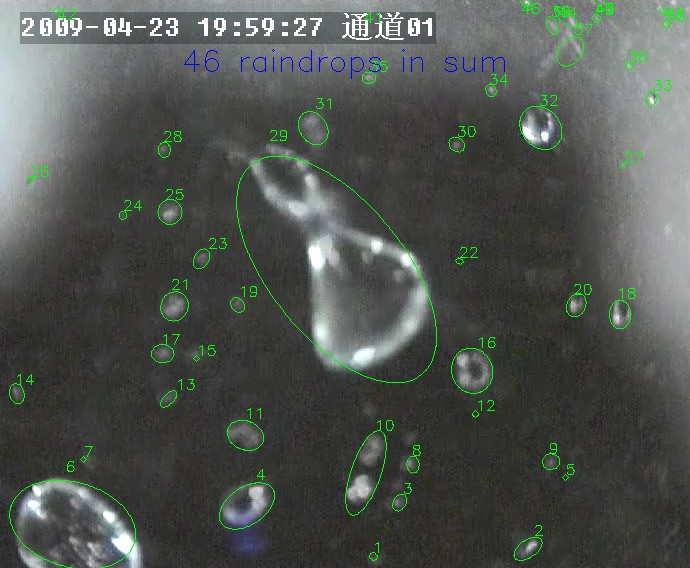
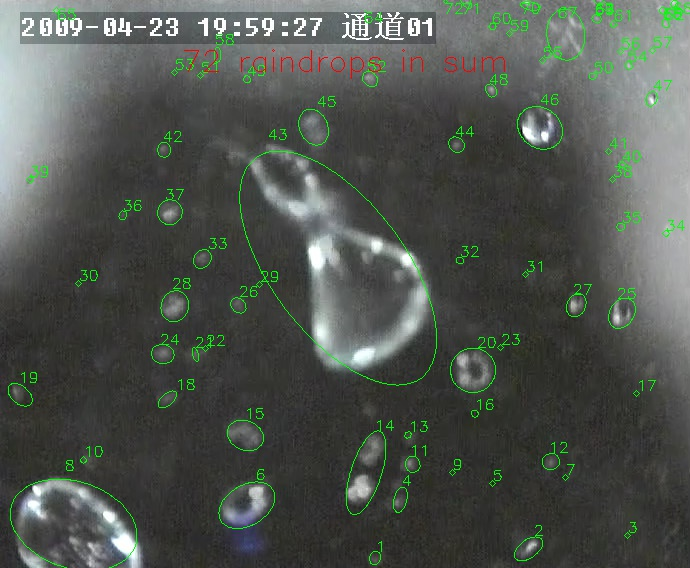
small update

diff --git a/src/main.cpp b/src/main.cpp
@@ -12,7 +12,9 @@ using namespace cv;
 
 static void help() {
   cout << "raindrop-recognition\n\n"
-       << "Waiting for update...\n"
+       << "Read images from 'images/' "
+       << "and calculate the quantity of raindrops.\n"
+       << "The result is saved in 'results/'"
        << "The code is based on OpenCV3.10.\n";
 }
 
@@ -23,9 +25,10 @@ int main(int argc, char** argv) {
   glob(images_dir, filenames); // Read a sequence of files within a folder
   for (size_t i = 0; i < filenames.size(); ++i) {
     Mat img_original = imread(filenames[i]);
-    cout << filenames[i];
+
     // Tailor invalid area
     img_original = img_original(Rect(0, 8, 690, img_original.rows - 8));
+
     namedWindow("Original image");
     imshow("Original image", img_original);
     Mat img_grey;
@@ -33,7 +36,7 @@ int main(int argc, char** argv) {
     img_grey.convertTo(img_grey, CV_32FC1);
 
     // Anisotropic diffusion
-    const int k = 16, iterate = 2;
+    const int k = 16, iterate = 1;
     anisotropicDiffusion(img_grey, img_grey, k, iterate);
 
     // Sobel Derivatives
@@ -41,7 +44,7 @@ int main(int argc, char** argv) {
 
     // Binarization
     Mat img_binary;
-    const double thresh = 12, max_val = 255;
+    const double thresh = 11, max_val = 255;
     threshold(img_grey, img_binary, thresh, max_val, THRESH_BINARY);
     img_binary.convertTo(img_binary, CV_8UC1);
 
@@ -64,15 +67,17 @@ int main(int argc, char** argv) {
 
     // Make the edges of raindrops more continuous
     close(img_binary, img_binary);
+    close(img_binary, img_binary);
 
     // Fill the holes inside the raindrops
     Mat img_temp = img_binary.clone();
     vector<vector<Point>> contours;
-    findContours(img_temp, contours, noArray(),
+    vector<Vec4i> hierarchy;
+    findContours(img_temp, contours, hierarchy,
                  CV_RETR_TREE, CV_CHAIN_APPROX_SIMPLE);
     for (size_t j = 0; j < contours.size(); j++) {
       drawContours(img_binary, contours, j, Scalar(255),
-                   CV_FILLED, 8, noArray(), 0);
+                   CV_FILLED, 8, hierarchy, INT_MAX);
     }
 
     // Remove some interference from raindrops

diff --git a/src/raindrop-recog.cpp b/src/raindrop-recog.cpp
@@ -58,5 +58,5 @@ void raindropRecognition(cv::Mat& img_original, cv::Mat& img_binary,
   Point text_sum_org((img_dst.cols - text_size.width) / 2,
                      60 + text_size.height / 2);
   putText(img_dst, text_sum, text_sum_org, font_face, font_scale,
-          Scalar(255, 0, 0), thickness, 8);
+          Scalar(0, 0, 255), thickness, 8);
 }
